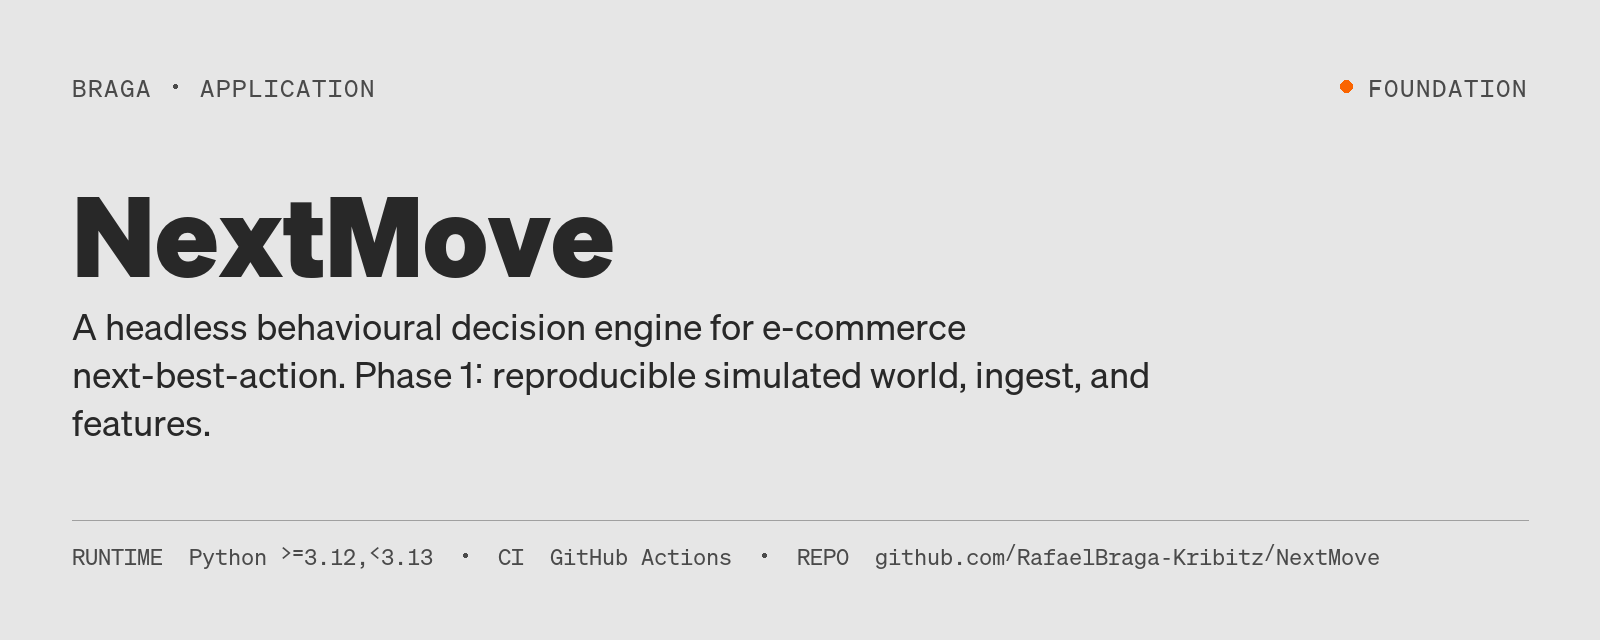
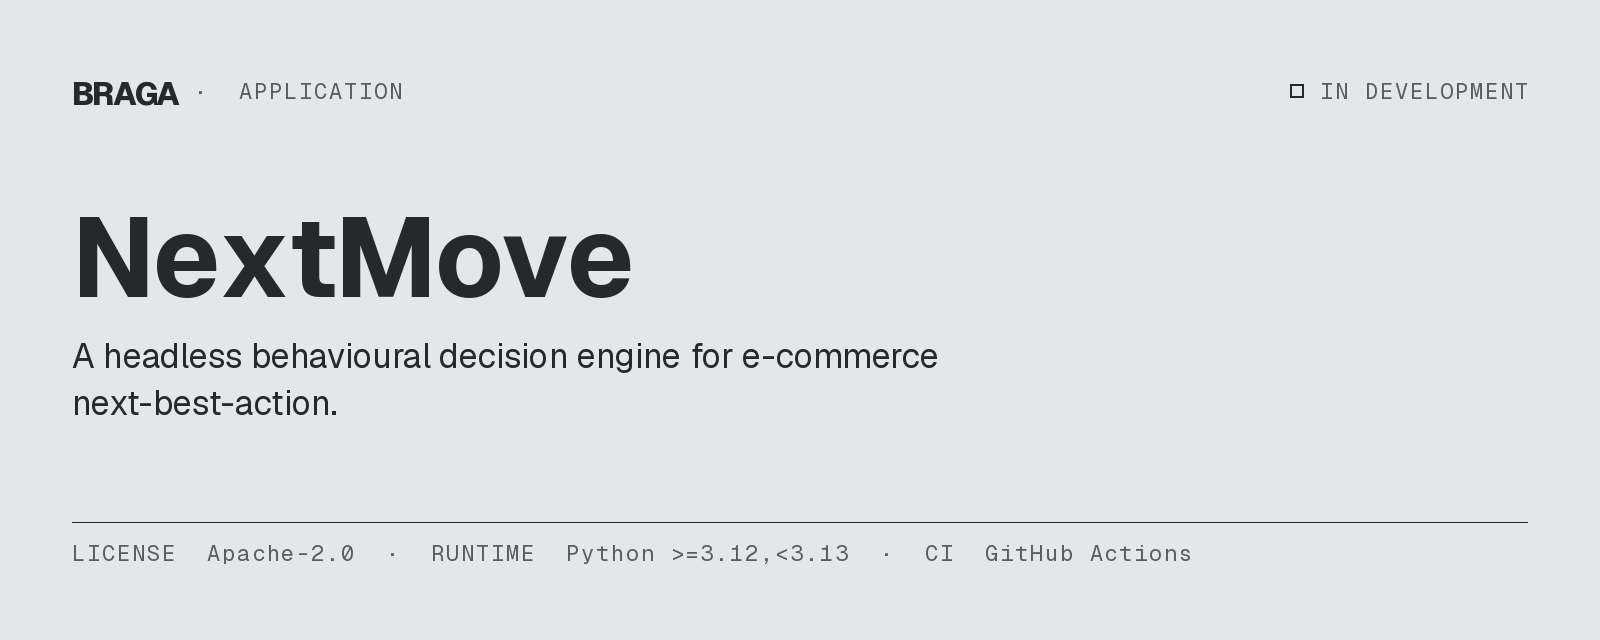
README on the Braga design system v2.1
Banner regenerated on design system v2.1 (BKribitz, status square, no
accent; D-051), shields badges in the neutrals (D-054), Mermaid diagrams
on the site's theme (D-052). Applied by braga-portfolio-docs
`python -m readme_quality fix`; the graph and the prose are unchanged.

Claude-Session: https://claude.ai/code/session_017JXfGqfFadubVauUqq2nZv

diff --git a/README.md b/README.md
@@ -3,9 +3,9 @@
 ![NextMove — a headless behavioural decision engine for e-commerce next-best-action](docs/assets/hero.png)
 
 [![CI](https://github.com/RafaelBraga-Kribitz/NextMove/actions/workflows/ci.yml/badge.svg)](https://github.com/RafaelBraga-Kribitz/NextMove/actions/workflows/ci.yml)
-[![Python 3.12](https://img.shields.io/badge/python-3.12-blue)](https://www.python.org/downloads/release/python-3120/)
-[![Status: In development](https://img.shields.io/badge/status-In%20development-yellow)](#status)
-[![License: Apache-2.0](https://img.shields.io/badge/license-Apache--2.0-green)](LICENSE)
+[![Python 3.12](https://img.shields.io/badge/python-3.12-5A5C61?labelColor=26282C)](https://www.python.org/downloads/release/python-3120/)
+[![Status: In development](https://img.shields.io/badge/status-In%20development-5A5C61?labelColor=26282C)](#status)
+[![License: Apache-2.0](https://img.shields.io/badge/license-Apache--2.0-5A5C61?labelColor=26282C)](LICENSE)
 
 **Status:** In development · the scoped release (ADR-011) is built and evaluated in simulation only
 
@@ -67,6 +67,33 @@ this repository.
 ## Method
 
 ```mermaid
+%%{init: {
+  "theme": "base",
+  "fontFamily": "BKribitz, system-ui, -apple-system, Segoe UI, Helvetica, Arial, sans-serif",
+  "themeVariables": {
+    "background": "#E4E6EA",
+    "primaryColor": "#DCDEE2",
+    "primaryTextColor": "#26282C",
+    "primaryBorderColor": "#26282C",
+    "secondaryColor": "#E4E6EA",
+    "secondaryTextColor": "#26282C",
+    "secondaryBorderColor": "#5A5C61",
+    "tertiaryColor": "#E4E6EA",
+    "tertiaryTextColor": "#26282C",
+    "tertiaryBorderColor": "#C2C4CA",
+    "lineColor": "#5A5C61",
+    "textColor": "#26282C",
+    "mainBkg": "#DCDEE2",
+    "nodeBorder": "#26282C",
+    "clusterBkg": "#E4E6EA",
+    "clusterBorder": "#C2C4CA",
+    "edgeLabelBackground": "#E4E6EA",
+    "titleColor": "#26282C",
+    "fontFamily": "BKribitz, system-ui, -apple-system, Segoe UI, Helvetica, Arial, sans-serif",
+    "fontSize": "14px"
+  },
+  "flowchart": { "curve": "linear", "htmlLabels": true, "padding": 8 }
+}}%%
 flowchart LR
     sim[Simulator] --> ingest[Ingest + DQ gates]
     ingest --> feat[Point-in-time features]
